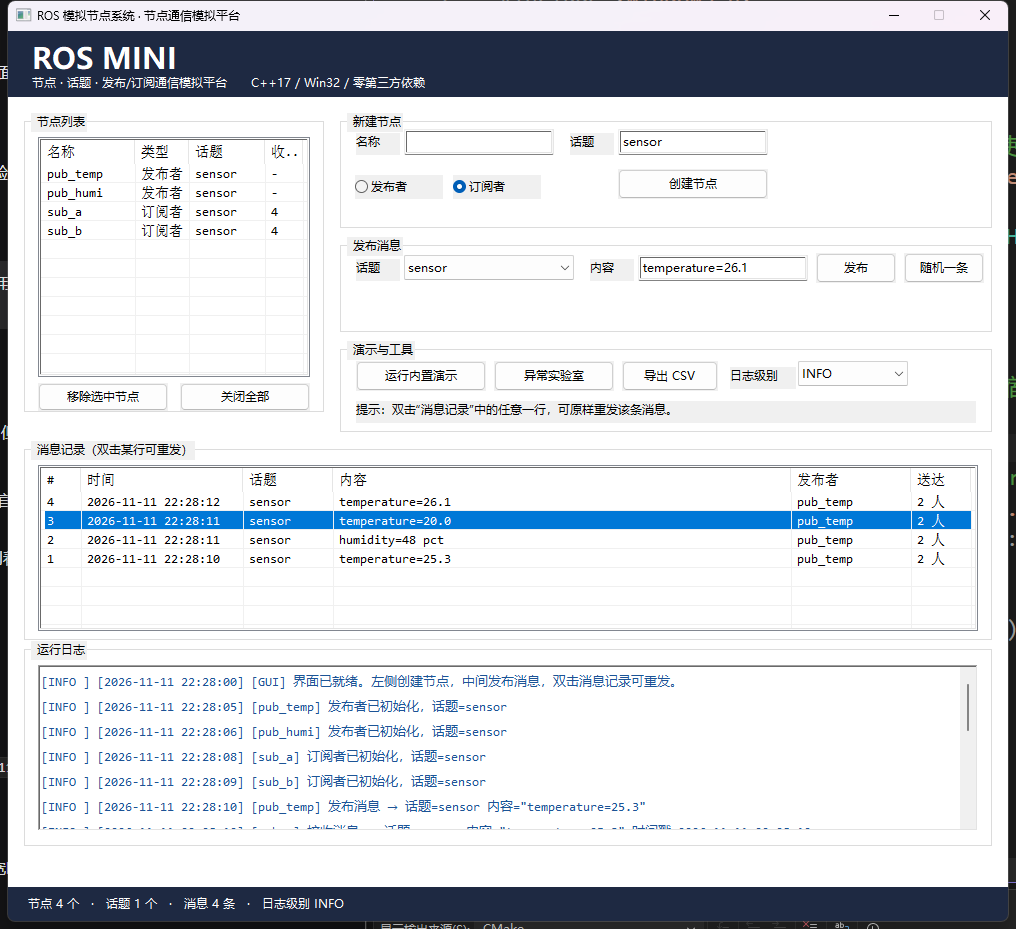
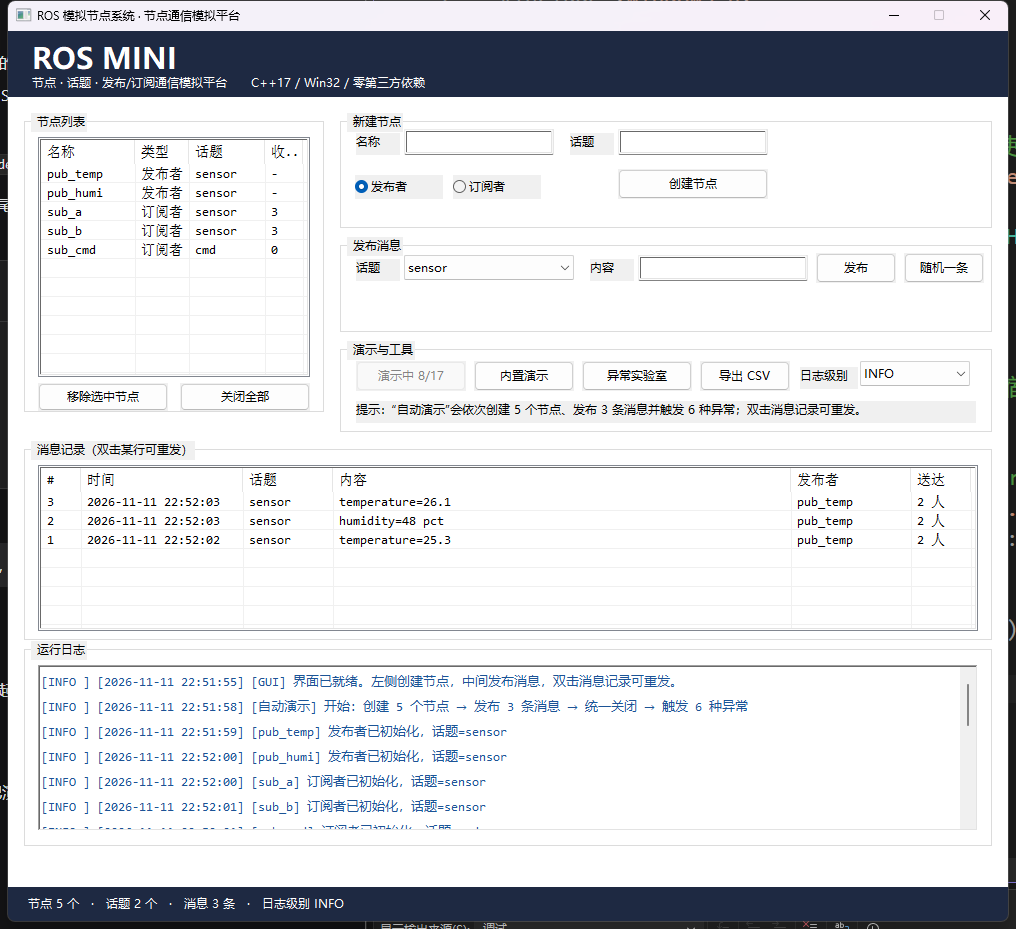
docs: 补充自动演示说明与最新界面截图

diff --git a/docs/03-技术文档.md b/docs/03-技术文档.md
@@ -272,12 +272,34 @@ while (GetMessageW(&message, nullptr, 0, 0) > 0) {
 把该行的话题与内容填回输入区再调用一次 `onPublish()`，于是就“重发”了一条完全相同的消息。
 最多保留 500 条，超出后丢弃最旧的。
 
-**4）日志接入界面**
+**4）自绘与双缓冲**
 
 `WM_PAINT` 里把标题条与状态条画在内存 DC 上再一次性 `BitBlt`，避免闪烁；
 窗口带 `WS_CLIPCHILDREN`，自绘区域不会覆盖子控件。
 
-**3）日志接入界面**
+**5）自动演示：定时器驱动**
+
+「自动演示」按钮不会阻塞界面：点击后 `SetTimer(window_, kTimerAutoDemo, 600, nullptr)`，
+`WM_TIMER` 每次只推进一个步骤（建节点 / 发消息 / 关闭 / 触发一个异常），17 步走完才
+`KillTimer` 并恢复按钮。
+
+```cpp
+case WM_TIMER:
+    if (wparam == kTimerAutoDemo) {
+        if (autoDemoRunning_) {
+            runAutoDemoStep(autoDemoStep_++);
+        } else {
+            KillTimer(window, kTimerAutoDemo);
+        }
+        return 0;
+    }
+    break;
+```
+
+**为什么不用 `Sleep` 串行跑**：那样会卡死消息循环，窗口变成“未响应”，日志也不会刷新。
+把长流程拆成小步、每步之间回到 `GetMessage`，界面始终可交互——这是答辩时值得讲一句的设计点。
+
+**6）日志接入界面**
 
 `Logger` 增加了一个接收器：
 
@@ -285,7 +307,7 @@ while (GetMessageW(&message, nullptr, 0, 0) > 0) {
 Logger::setSink([this](const std::string& line) { appendLog(line); });
 ```
 
-每产生一行日志，除原有的控制台与文件输出外，还会回调到界面，追加进只读的多行 EDIT
+每产生一行日志，除原有的控制台与文件输出外，还会回调到界面，追加进只读的多行 RichEdit
 并把光标滚到底部。这样界面、控制台、文件三处日志天然一致，业务代码一行都不用改。
 
 **界面与核心的关系**：`GuiApp` 只做「创建对象、调接口、显示结果」，不包含任何通信逻辑；

diff --git a/README.md b/README.md
@@ -102,13 +102,14 @@ build/rosmini_tests    # 运行测试
 
 可完成的操作：
 
-1. **创建节点**：填名称与话题，选「发布者/订阅者」，点「创建节点」
-2. **发布消息**：从下拉框选话题、输入内容（或点「随机一条」自动生成），点「发布」
-3. **查看消息记录**：每次发布成功都在「消息记录」表里新增一行，含序号、时间、话题、内容、
+1. **自动演示**（推荐先用）：点一下，界面按 17 个步骤自动走完「创建 5 个节点 → 发布 3 条消息 →
+   统一关闭 → 触发 6 种异常」，全程约 10 秒，按钮上实时显示进度，适合答辩一键展示
+2. **创建节点**：填名称与话题，选「发布者/订阅者」，点「创建节点」
+3. **发布消息**：从下拉框选话题、输入内容（或点「随机一条」自动生成），点「发布」
+4. **查看消息记录**：每次发布成功都在「消息记录」表里新增一行，含序号、时间、话题、内容、
    发布者、送达人数；**双击任意一行即可原样重发**
-4. **移除节点**：在左侧列表选中后点「移除选中节点」（动态注销，对应需求 FR-16）
-5. **运行内置演示**：自动跑「2 发布者 + 2 订阅者」的多对多场景
-6. **异常实验室**：依次触发 6 种非法操作，观察每一条都被捕获、程序不崩溃
+5. **移除节点**：在左侧列表选中后点「移除选中节点」（动态注销，对应需求 FR-16）
+6. **异常实验室**：一次性把 6 种非法操作跑完，观察每一条都被捕获、程序不崩溃
 7. **导出 CSV**：把消息记录导出为 `messages.csv`（UTF-8，Excel 可直接打开）
 8. **日志着色**：INFO 蓝、WARN 橙、ERROR 红；可按级别切换只显示 WARN/ERROR
 

diff --git a/docs/04-用户手册.md b/docs/04-用户手册.md
@@ -105,13 +105,29 @@ cmake --build build
 
 | 按钮 | 作用 |
 |---|---|
+| 自动演示 | 一键演示：自动创建 5 个节点、发布 3 条消息、统一关闭、触发 6 种异常（约 10 秒） |
+| 内置演示 | 只跑「2 个发布者 + 2 个订阅者」的多对多场景，不涉及异常 |
 | 移除选中节点 | 在左侧列表选中后点击，动态注销该节点（对应需求 FR-16） |
 | 关闭全部 | 统一关闭所有节点并清空映射表 |
-| 运行内置演示 | 自动跑「2 个发布者 + 2 个订阅者」的多对多场景 |
 | 异常实验室 | 依次触发 6 种非法操作，全部被捕获，程序不崩溃 |
 | 导出 CSV | 把「消息记录」导出为 `messages.csv`（UTF-8，Excel 可直接打开） |
 | 随机一条 | 自动生成一条 `temperature=xx.x` 并发布 |
 | 日志级别 | 在 INFO / WARN / ERROR 之间切换，实时过滤日志 |
+
+### 5.1.1 自动演示（答辩推荐）
+
+点「自动演示」后按钮会变成「演示中 3/17」并禁用，界面每隔 0.6 秒自动推进一步：
+
+| 步骤 | 动作 |
+|---|---|
+| 1~5 | 依次创建 `pub_temp`、`pub_humi`（发布者）与 `sub_a`、`sub_b`（订阅者，话题 sensor）、`sub_cmd`（话题 cmd） |
+| 6~8 | 连续发布 3 条消息，观察两个订阅者的「收到」计数同步增长 |
+| 9 | 输出对照说明：`sub_cmd` 收到 0 条（话题隔离） |
+| 10 | 统一关闭 5 个节点，逐个输出关闭日志 |
+| 11~16 | 依次触发 6 种非法操作，每条都被捕获成可读中文异常 |
+| 17 | 输出总结，按钮恢复可用 |
+
+期间界面不会卡死（演示由 `WM_TIMER` 驱动，每步之间回到消息循环），可以随时点其它按钮查看当前状态。
 
 ### 5.1.1 消息记录表与“双击重发”
 

diff --git a/docs/01-需求文档.md b/docs/01-需求文档.md
@@ -185,6 +185,7 @@ Publisher::publish("temperature=25.3")
 | FR-19 | 消息记录与重发 | 记录每次成功发布的消息（序号/时间/话题/内容/发布者/送达人数），双击可原样重发 | P1 |
 | FR-20 | 消息导出 | 将消息记录导出为 UTF-8 编码的 CSV 文件 | P2 |
 | FR-21 | 日志着色 | 日志按 INFO/WARN/ERROR 分级着色，并支持按级别过滤 | P2 |
+| FR-22 | 自动演示 | 一键按固定节奏自动走完「建节点 → 发布 → 关闭 → 异常」全流程，全程界面可交互 | P1 |
 
 界面层通过 `Logger::setSink()` 接收日志、通过 `ROS::subscriberCount()` 统计送达人数，
 因此上述功能**不要求核心库新增任何接口**（`ROS::topics()` 除外，用于填充话题下拉框）。
